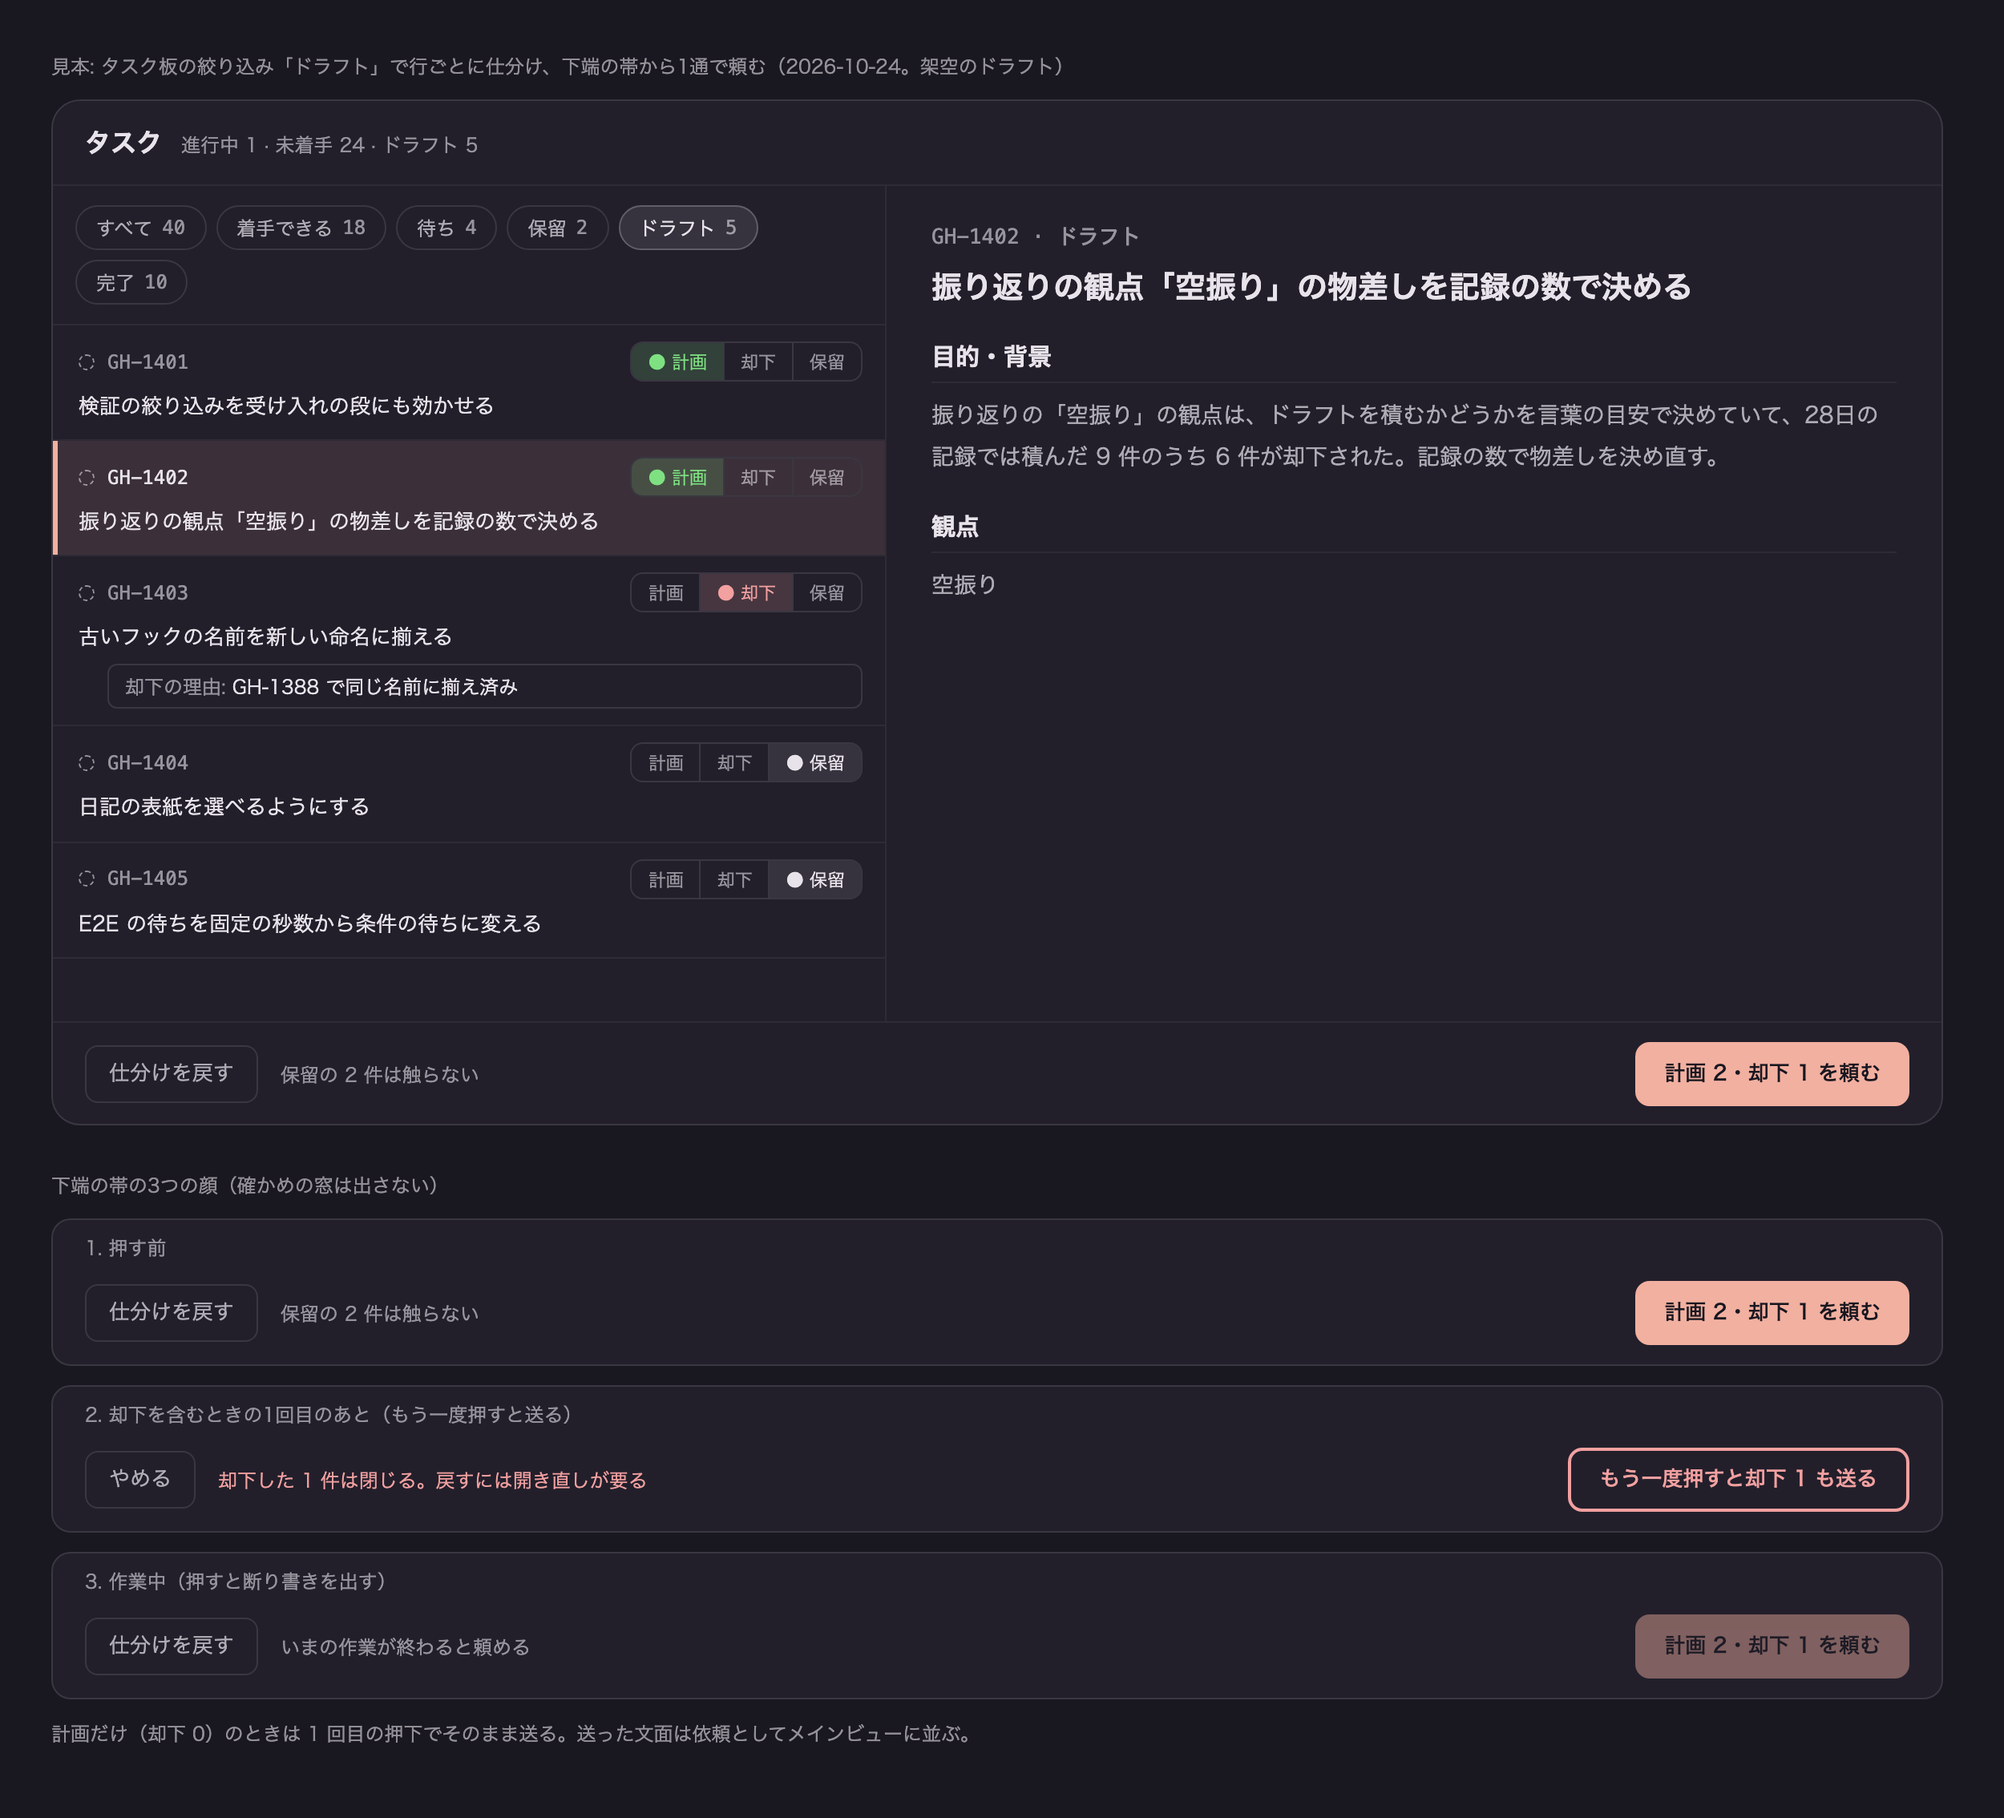
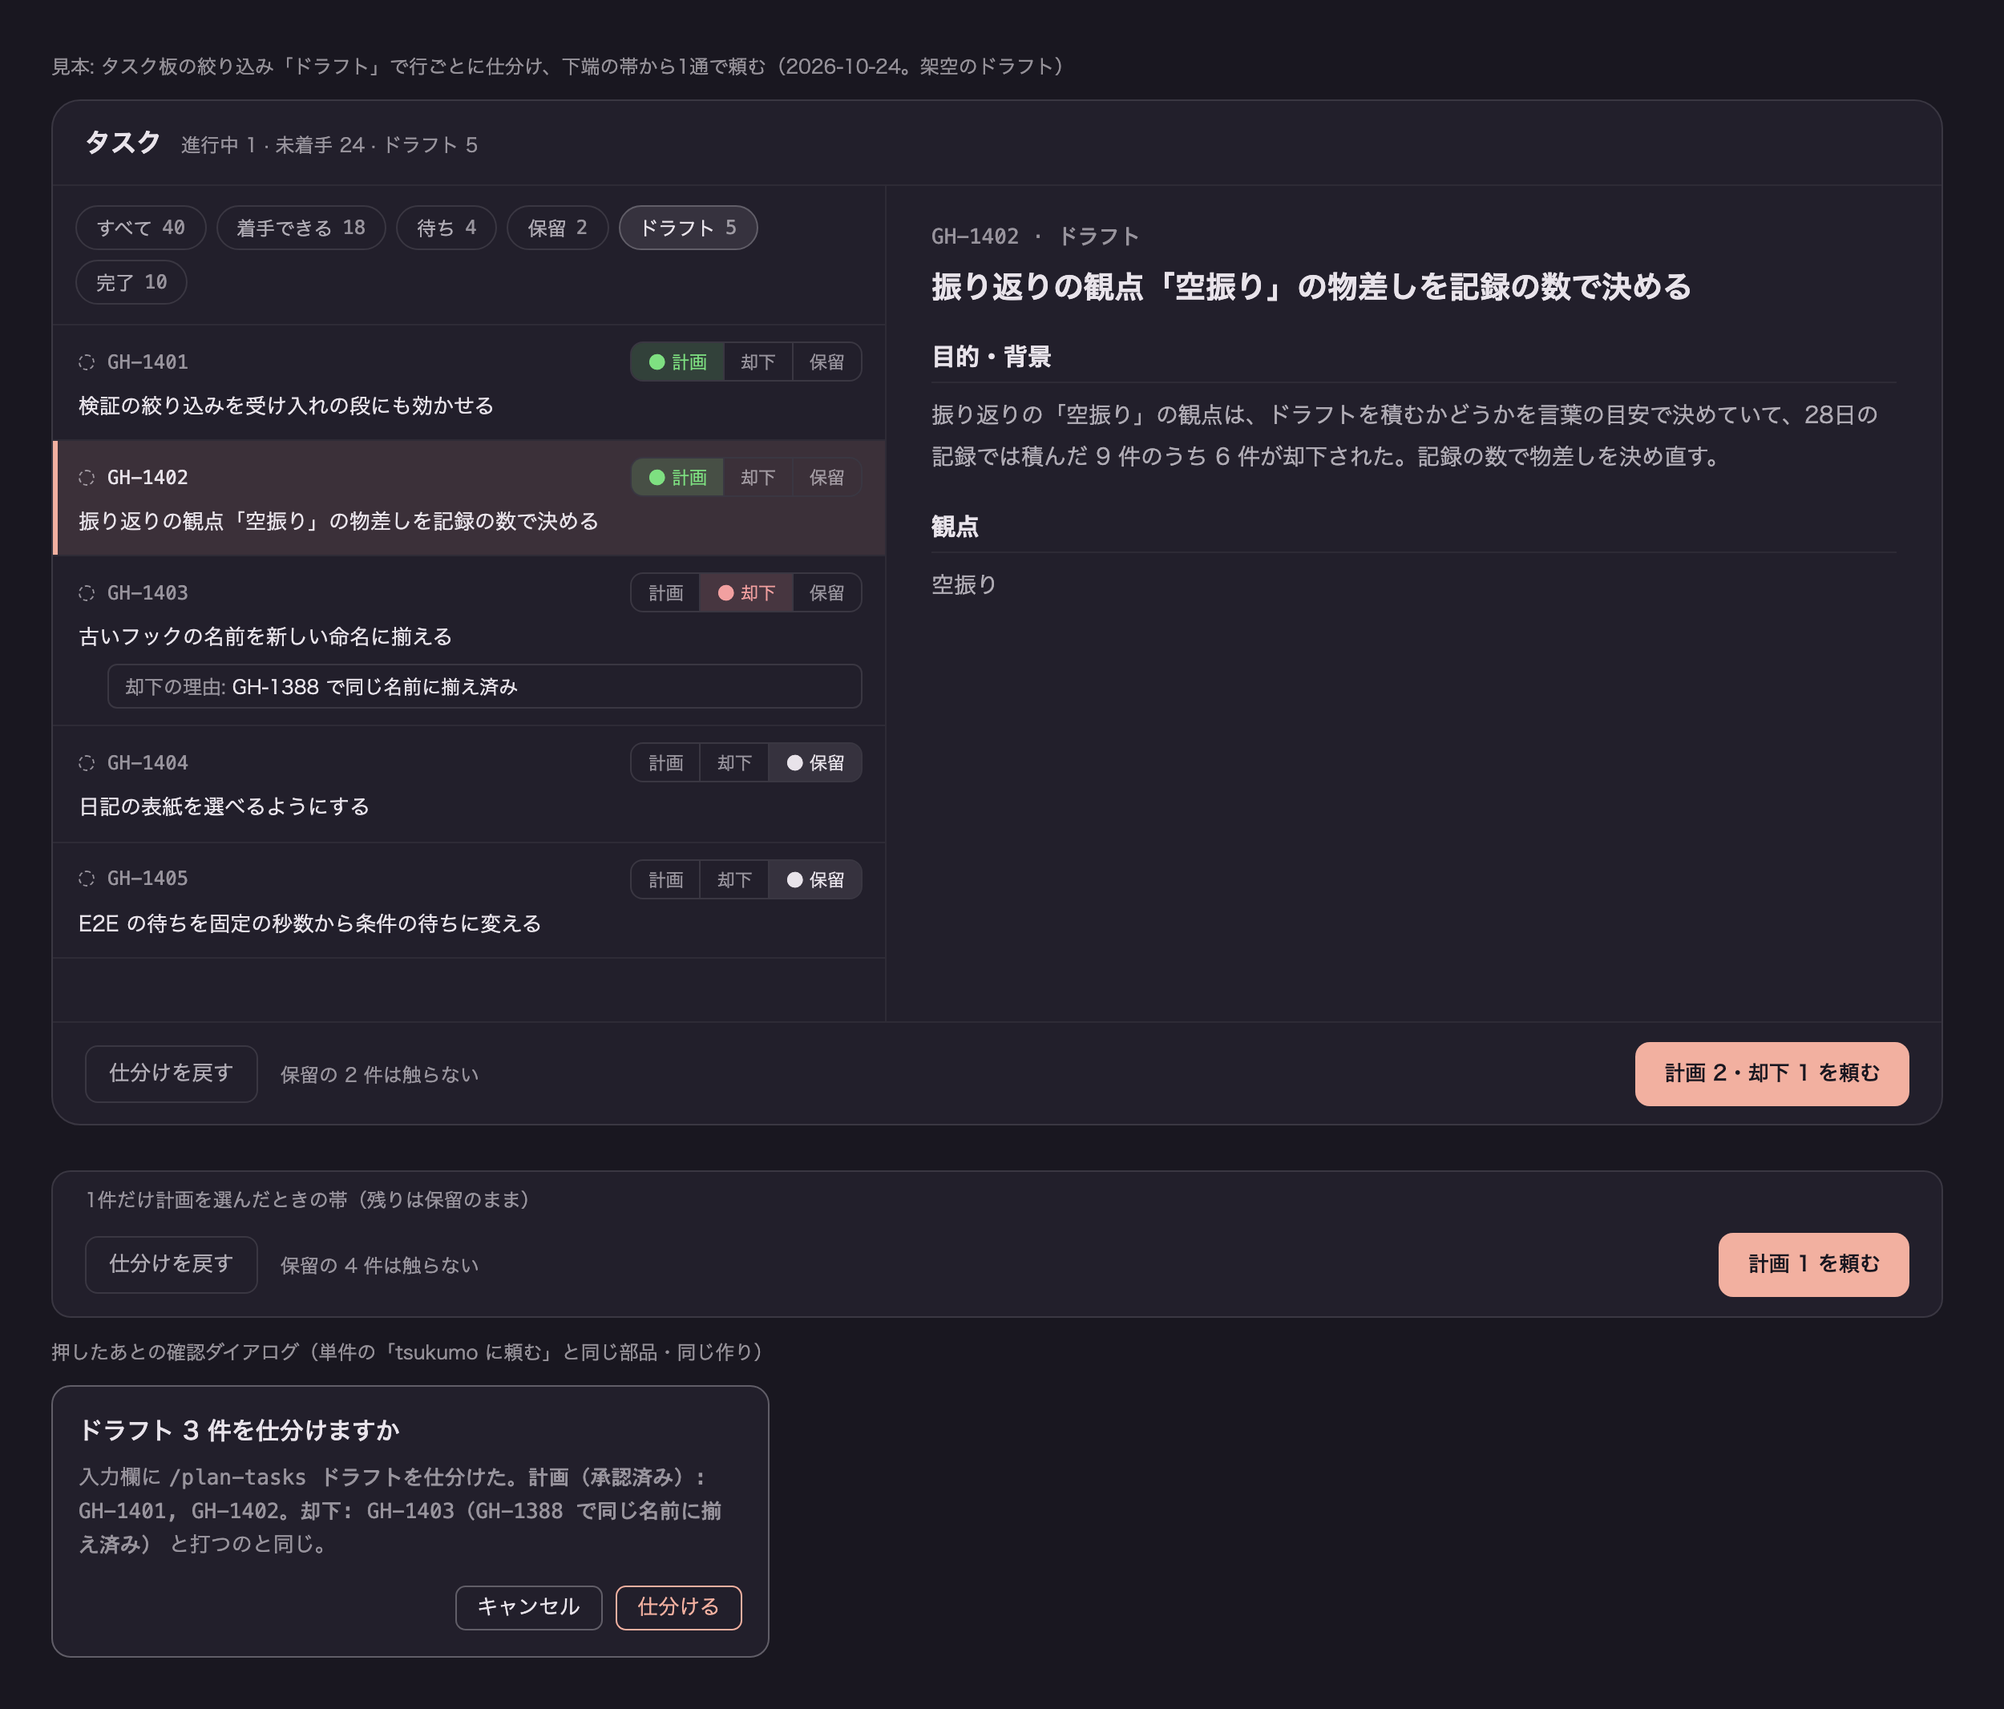
ドラフトの仕分けの見本を、単件と同じ確認ダイアログを通す形に直す

diff --git a/docs/history/mockup/task-board-draft-batch-2026-10-24.html b/docs/history/mockup/task-board-draft-batch-2026-10-24.html
@@ -105,10 +105,17 @@
     display: inline-flex; align-items: center;
   }
   .hint { color: var(--ink-quiet); font-size: 12px; }
-  .hint.warn { color: var(--state-ng); }
-  /* 1回目を押したあと。地を抜いて枠と字を警告の色にし、形（太い枠）でも変わったと言う。 */
-  .go.armed { background: transparent; color: var(--state-ng); border: 2px solid var(--state-ng); }
-  .go.waiting { opacity: 0.45; }
+  /* 値は task-run-confirm.module.css の写し（幅 28rem・余白 1rem・角丸 0.75rem）。 */
+  .dialog {
+    width: 28rem; padding: 1rem; background: var(--surface); color: var(--ink);
+    border: 1px solid var(--rule); border-radius: 0.75rem; font-size: 13px;
+  }
+  .dialog-heading { margin: 0; font-size: 15px; font-weight: 600; }
+  .dialog-note { margin: 0.5rem 0 0; color: var(--ink-quiet); line-height: 1.6; }
+  .dialog-note code { font-family: var(--font-mono); }
+  .dialog-actions { display: flex; justify-content: flex-end; gap: 0.5rem; margin-top: 0.9rem; }
+  .dialog-btn { padding: 0.2rem 0.8rem; border-radius: 0.4rem; border: 1px solid var(--rule); }
+  .dialog-btn.ok { border-color: var(--accent); color: var(--accent); }
   .faces { margin-top: 28px; width: 1180px; }
   .face { margin-bottom: 12px; background: var(--surface); border: 1px solid var(--rule-soft); border-radius: 12px; overflow: hidden; }
   .face-label { display: block; padding: 8px 20px 0; color: var(--ink-quiet); font-size: 12px; }
@@ -174,34 +181,22 @@
   </div>
 </div>
 
-<!-- 確かめの窓は出さない。帯だけで、押す前・1回押した後・作業中の3つの顔を持つ。 -->
+<!-- 押したあとは単件と同じ確認ダイアログ（task-run-confirm）を通る。作業中の断りもそのダイアログが出す。 -->
 <div class="faces">
-  <p class="caption">下端の帯の3つの顔（確かめの窓は出さない）</p>
   <div class="face">
-    <span class="face-label">1. 押す前</span>
+    <span class="face-label">1件だけ計画を選んだときの帯（残りは保留のまま）</span>
     <div class="bar">
       <span class="ghost">仕分けを戻す</span>
-      <span class="hint">保留の 2 件は触らない</span>
-      <span class="go">計画 2・却下 1 を頼む</span>
+      <span class="hint">保留の 4 件は触らない</span>
+      <span class="go">計画 1 を頼む</span>
     </div>
   </div>
-  <div class="face">
-    <span class="face-label">2. 却下を含むときの1回目のあと（もう一度押すと送る）</span>
-    <div class="bar">
-      <span class="ghost">やめる</span>
-      <span class="hint warn">却下した 1 件は閉じる。戻すには開き直しが要る</span>
-      <span class="go armed">もう一度押すと却下 1 も送る</span>
-    </div>
+  <p class="caption">押したあとの確認ダイアログ（単件の「tsukumo に頼む」と同じ部品・同じ作り）</p>
+  <div class="dialog">
+    <p class="dialog-heading">ドラフト 3 件を仕分けますか</p>
+    <p class="dialog-note">入力欄に <code>/plan-tasks ドラフトを仕分けた。計画（承認済み）: GH-1401, GH-1402。却下: GH-1403（GH-1388 で同じ名前に揃え済み）</code> と打つのと同じ。</p>
+    <div class="dialog-actions"><span class="dialog-btn">キャンセル</span><span class="dialog-btn ok">仕分ける</span></div>
   </div>
-  <div class="face">
-    <span class="face-label">3. 作業中（押すと断り書きを出す）</span>
-    <div class="bar">
-      <span class="ghost">仕分けを戻す</span>
-      <span class="hint">いまの作業が終わると頼める</span>
-      <span class="go waiting">計画 2・却下 1 を頼む</span>
-    </div>
-  </div>
-  <p class="caption">計画だけ（却下 0）のときは 1 回目の押下でそのまま送る。送った文面は依頼としてメインビューに並ぶ。</p>
 </div>
 </body>
 </html>
